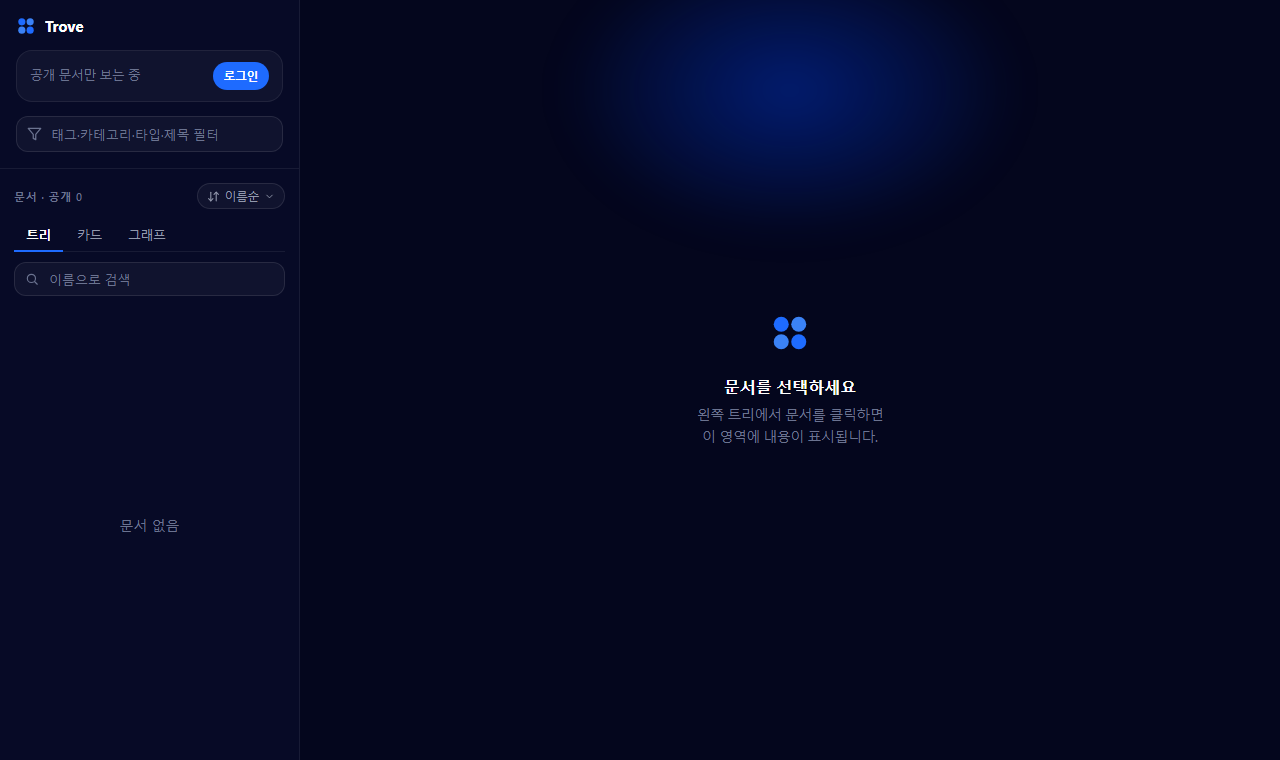
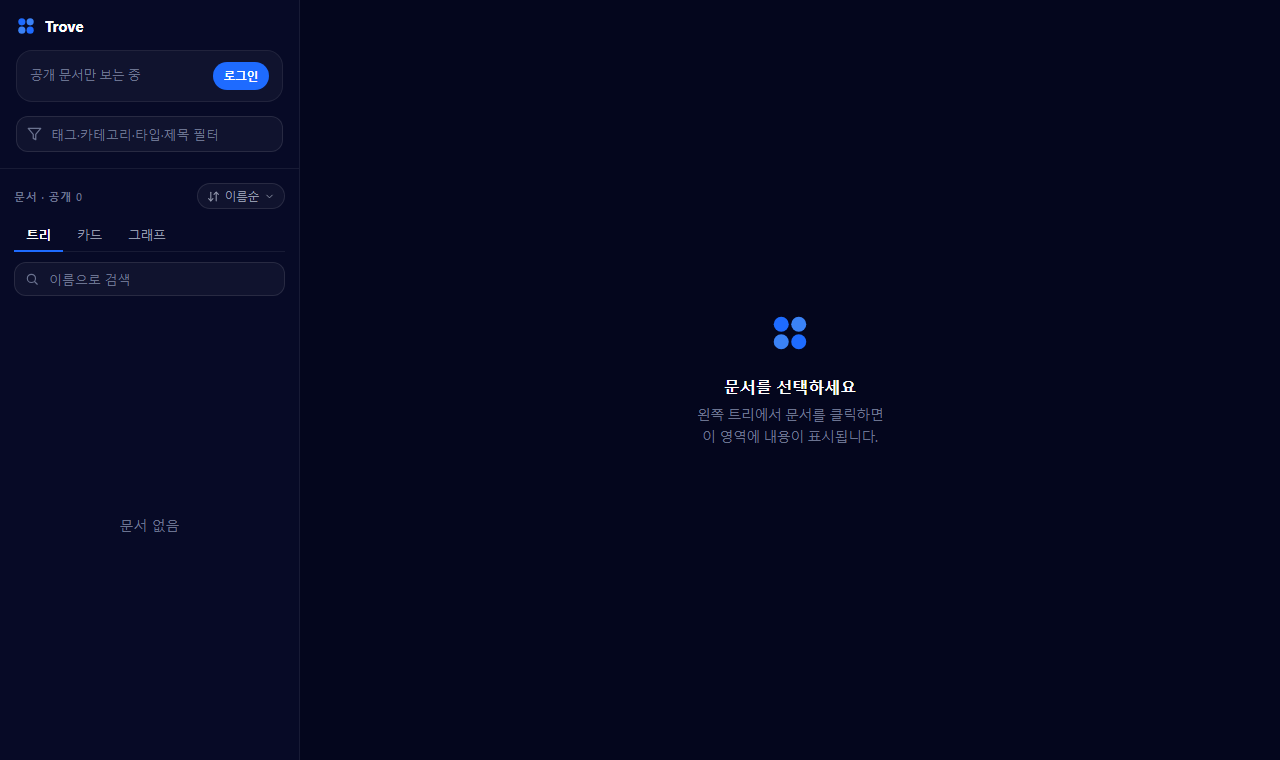
fix(viewer): remove empty-state gradient glow; clarify upload (folder batch, tree from path)

Changed region(s): [[0.4688, 0.0, 0.75, 0.2724]]

diff --git a/viewer/src/theme.css b/viewer/src/theme.css
@@ -150,10 +150,8 @@ mark.hl { background: rgba(255,176,32,.28); color: inherit; border-radius: 3px; 
 @keyframes spin { to { transform: rotate(360deg); } }
 
 /* ---- doc pane: unselected / states ---- */
-.pane-center { flex: 1; display: flex; align-items: center; justify-content: center; position: relative; overflow: hidden; padding: 40px; }
-.pane-glow { position: absolute; top: -60px; left: 50%; transform: translateX(-50%); width: 460px; height: 300px;
-  background: radial-gradient(ellipse at center, rgba(1,47,183,.55), transparent 70%); filter: blur(18px); pointer-events: none; }
-.empty { position: relative; text-align: center; max-width: 320px; }
+.pane-center { flex: 1; display: flex; align-items: center; justify-content: center; padding: 40px; }
+.empty { text-align: center; max-width: 320px; }
 .empty .title { margin-top: 18px; color: var(--text-strong); font-weight: 600; font-size: 16px; }
 .empty .sub { margin-top: 7px; color: var(--text-faint); font-size: 13.5px; line-height: 1.6; }
 .err-badge { width: 60px; height: 60px; border-radius: var(--radius-pill); background: var(--red-900);

diff --git a/viewer/src/App.tsx b/viewer/src/App.tsx
@@ -189,7 +189,6 @@ export default function App() {
           </div>
         ) : (
           <div className="pane-center">
-            <div className="pane-glow" />
             <div className="empty">
               <Logo size={42} />
               <div className="title">문서를 선택하세요</div>

diff --git a/README.md b/README.md
@@ -31,7 +31,7 @@ gdoc/
 ## 사용 방법
 
 1. **문서 작성** — HTML을 만들 때 `<head>`에 아래 메타 블록을 넣습니다(제목·태그·카테고리·경로·공개범위).
-2. **업로드** — `bun run gdoc upload docs` 로 `docs/`의 HTML을 발행합니다. 본문/자산은 Storage, 메타는 Postgres에 기록됩니다.
+2. **업로드** — `bun run gdoc upload <폴더>` 로 폴더 안의 `*.html` 파일들을 한 번에 발행합니다(본문/자산 → Storage, 메타 → Postgres). 폴더는 "올릴 HTML 모음"일 뿐이고, 뷰어의 **폴더 트리는 로컬 폴더 구조가 아니라 각 문서의 `path` 메타**로 구성됩니다.
 3. **열람** — 뷰어(로컬 `bun run dev` 또는 배포 URL)에서 트리/카드/그래프로 탐색하고, 문서를 클릭하면 페이지로 읽습니다.
 4. **그래프(선택)** — `bun run gdoc analyze` 실행 후 로그인하면 태그 기반 지식 그래프를 봅니다.
 